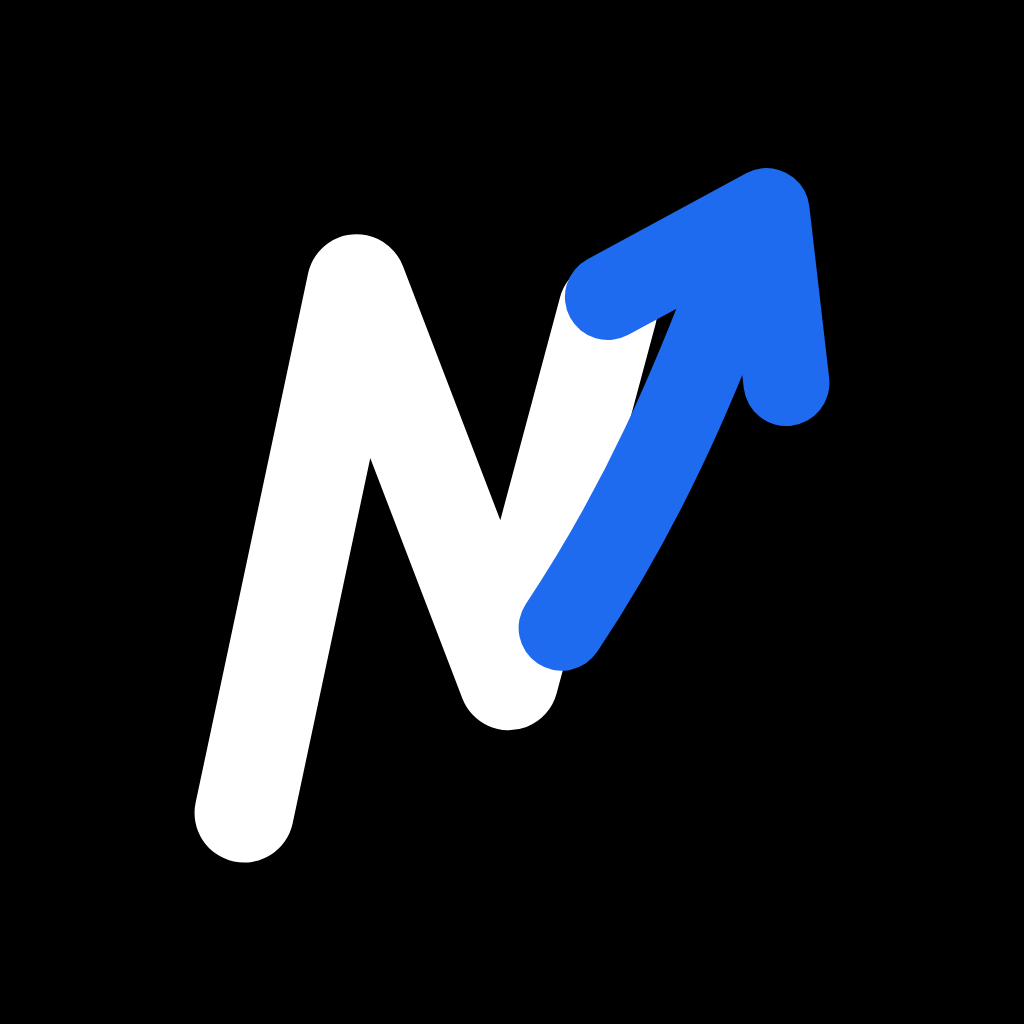
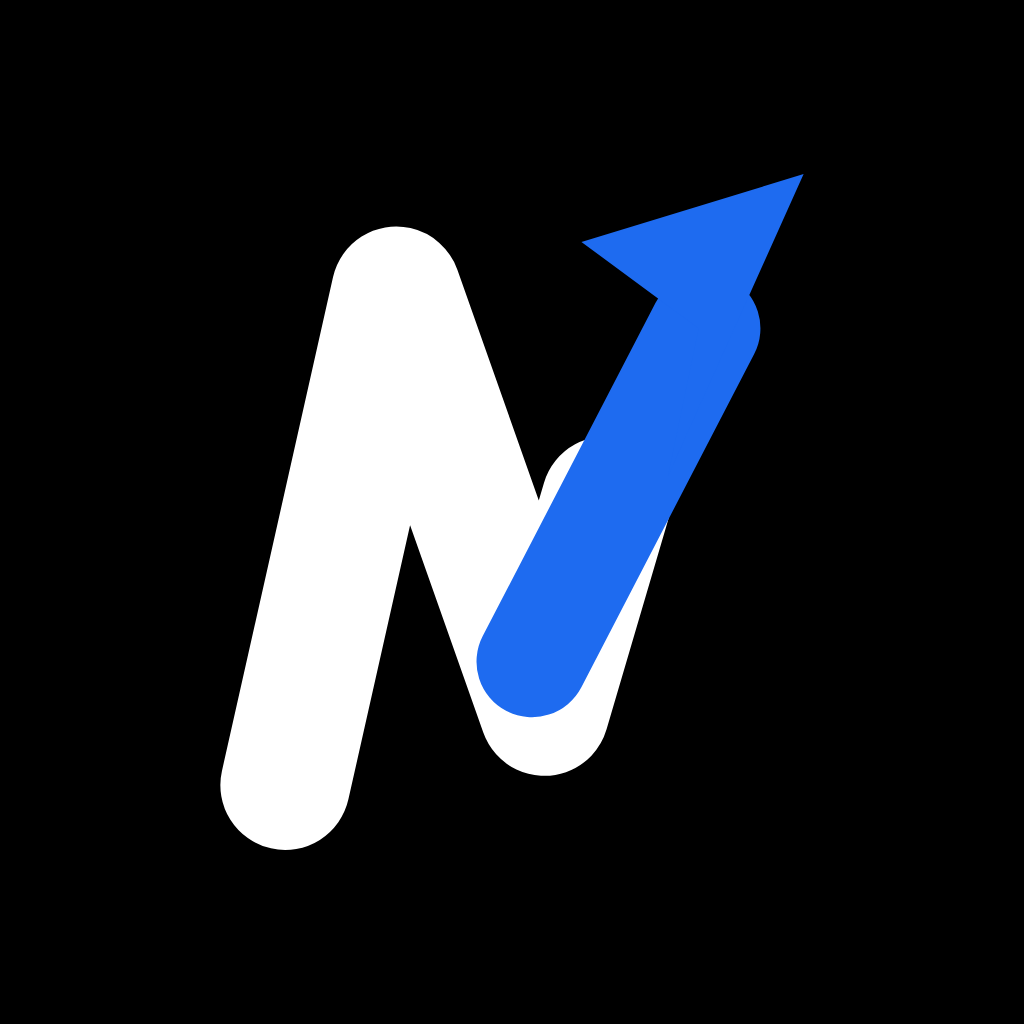
Redraw the mark to match the supplied artwork
The previous vector was wrong in two ways that mattered. Its strokes were
far too thin for a brush logo, and it drew the N's third stroke at full
height — in the real artwork that upstroke is taken over by the blue arrow,
which is what makes the mark read as one gesture rather than a letter with
an arrow parked next to it.

Now: heavier strokes (10.5 for the N, 9 for the arrow shaft), the N's final
stroke cut short at mid-height, and a filled triangular arrowhead instead
of a stroked chevron, which was reading as a blob at small sizes.

Geometry updated in all seven places that carry it — the five SVGs plus the
inline React and React Native components — and every icon regenerated from
the new inked bounds (x 7.75-55, y 6.5-61.25) so nothing is off-centre.

Adds packages/brand/assets/source/ with instructions for dropping in the
real artwork. Everything shipping is still an interpretation rebuilt by eye
from a screen image; pasted images do not reach the filesystem, so the
actual file has to arrive through the repo. That folder documents what to
add, in what format, and which files get retired when it lands.

Verified: 95 tests, web compiles, mobile typechecks, tokens resolve.

Claude-Session: https://claude.ai/code/session_01QVQMrAk2wGNDxA7TDEzmVU

diff --git a/apps/mobile/src/components/Mark.tsx b/apps/mobile/src/components/Mark.tsx
@@ -2,38 +2,33 @@ import Svg, { Path } from 'react-native-svg';
 import { colors } from '../theme';
 
 /**
- * The New Manager Success mark. Same geometry as
- * `packages/brand/assets/logo-mark.svg` — a stylised N with an arrow rising
- * through it. Kept as code rather than a bundled PNG so it stays crisp at any
- * size and takes colour from the theme.
+ * The New Manager Success mark. Geometry is identical to
+ * `packages/brand/assets/logo-mark.svg` — a brush "N" whose final upstroke is
+ * taken over by a rising arrow. Kept as code rather than a bundled PNG so it
+ * stays crisp at any size and takes colour from the theme.
  *
- * ⚠ Provisional geometry — see the note in the SVG. When the source vector
- * arrives, update both files together.
+ * ⚠ Provisional geometry — when the source vector arrives, update this file,
+ * the web component, and the five SVGs in packages/brand/assets together.
  */
 export function Mark({ size = 32 }: { size?: number }) {
   return (
     <Svg width={size} height={size} viewBox="0 0 64 64" fill="none">
       <Path
-        d="M11 54 L19.5 14 L31 44 L38.5 16"
+        d="M13 56 L22 16 L34 50 L39 33"
         stroke={colors.fg}
-        strokeWidth={7.5}
+        strokeWidth={10.5}
+        fill="none"
         strokeLinecap="round"
         strokeLinejoin="round"
       />
       <Path
-        d="M35 40 C41 31 45 22 49 11"
+        d="M33 46 L47 19"
         stroke={colors.accent}
-        strokeWidth={6.5}
+        strokeWidth={9}
+        fill="none"
         strokeLinecap="round"
-        strokeLinejoin="round"
       />
-      <Path
-        d="M38.5 15 L50.5 8.5 L52 21.5"
-        stroke={colors.accent}
-        strokeWidth={6.5}
-        strokeLinecap="round"
-        strokeLinejoin="round"
-      />
+      <Path d="M55 6.5 L37 12 L46.5 19 L44 31 Z" fill={colors.accent} />
     </Svg>
   );
 }

diff --git a/apps/web/src/components/Logo.tsx b/apps/web/src/components/Logo.tsx
@@ -20,15 +20,22 @@ export function LogoMark({ size = 32, title }: { size?: number; title?: string }
       aria-label={title}
     >
       {title ? <title>{title}</title> : null}
-      <g strokeLinecap="round" strokeLinejoin="round">
-        <path d="M11 54 L19.5 14 L31 44 L38.5 16" stroke="var(--nms-color-fg)" strokeWidth="7.5" />
-        <path
-          d="M35 40 C41 31 45 22 49 11"
-          stroke="var(--nms-color-accent)"
-          strokeWidth="6.5"
-        />
-        <path d="M38.5 15 L50.5 8.5 L52 21.5" stroke="var(--nms-color-accent)" strokeWidth="6.5" />
-      </g>
+      <path
+        d="M13 56 L22 16 L34 50 L39 33"
+        stroke="var(--nms-color-fg)"
+        strokeWidth="10.5"
+        fill="none"
+        strokeLinecap="round"
+        strokeLinejoin="round"
+      />
+      <path
+        d="M33 46 L47 19"
+        stroke="var(--nms-color-accent)"
+        strokeWidth="9"
+        fill="none"
+        strokeLinecap="round"
+      />
+      <path d="M55 6.5 L37 12 L46.5 19 L44 31 Z" fill="var(--nms-color-accent)" />
     </svg>
   );
 }

diff --git a/packages/brand/assets/source/README.md b/packages/brand/assets/source/README.md
@@ -1,0 +1,59 @@
+# Drop the original logo artwork here
+
+Everything in `packages/brand/assets/` one level up is a **vector
+interpretation** of the New Manager Success logo, rebuilt by eye from a screen
+image. It is close, but it is not the artwork: the original is brush-painted
+with dry-brush texture and tapered strokes, and none of that is reproduced.
+
+Put the real files in this folder and the interpretation gets retired.
+
+## What to add
+
+Best to worst. Add whichever you have — more than one is fine.
+
+| File | Why it matters |
+|---|---|
+| `logo-mark.svg` | **Best.** Vector, scales to any size, recolourable. If your designer has an `.ai` or `.eps`, exporting SVG from it takes ten seconds |
+| `logo-lockup-horizontal.svg` | Mark + wordmark, side by side |
+| `logo-lockup-stacked.svg` | Mark above the stacked wordmark |
+| `logo-mark.png` | Workable. **Transparent background, 1024px or larger.** A PNG cannot scale up cleanly, so anything smaller will look soft as an app icon |
+| `logo-source.ai` / `.eps` | Keep the master here too, even if it needs Illustrator to open |
+
+Name them as above if you can. If not, add them anyway with any name — the
+names are a convenience, not a requirement.
+
+## Also useful
+
+- **The exact brand blue.** Currently `#1E6BF0`, read off a screen image, so it
+  is close but not exact. One hex code fixes it everywhere — it is defined once
+  as `BRAND_BLUE` in `packages/brand/src/color.ts`.
+- **The wordmark typeface.** "NEW MANAGER SUCCESS" is set in a heavy condensed
+  grotesk. The name of that font lets the lockups be set properly instead of
+  approximated in a system stack.
+
+## How to add them
+
+```bash
+git checkout claude/manager-training-lms-app-qciutt
+git pull
+# copy your files into packages/brand/assets/source/
+git add packages/brand/assets/source
+git commit -m "Add source logo artwork"
+git push
+```
+
+Or use the GitHub web UI: open this folder, **Add file → Upload files**, drop
+them in, commit.
+
+## What happens next
+
+Once the files are here:
+
+1. The five SVGs in `packages/brand/assets/` are replaced with the real mark.
+2. `packages/brand/scripts/gen-icons.mjs` regenerates the app icons, favicon,
+   splash, and social image from it.
+3. The inline copies in `apps/web/src/components/Logo.tsx` and
+   `apps/mobile/src/components/Mark.tsx` are updated to match.
+
+Those are the only places the geometry lives, and they must always change
+together.
